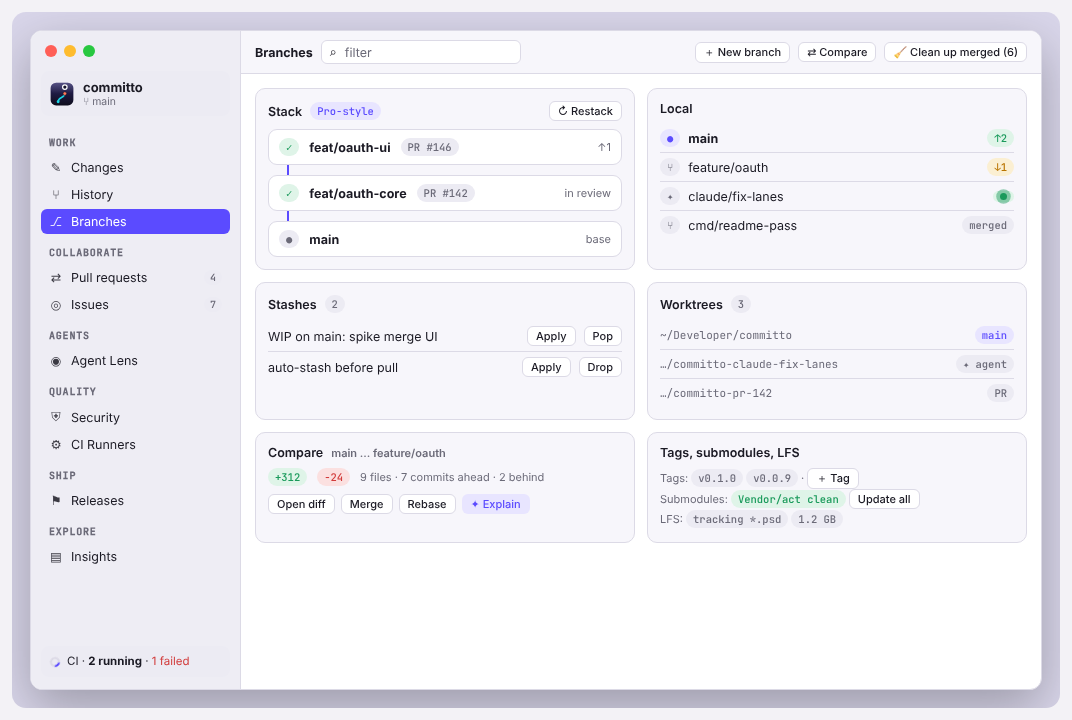
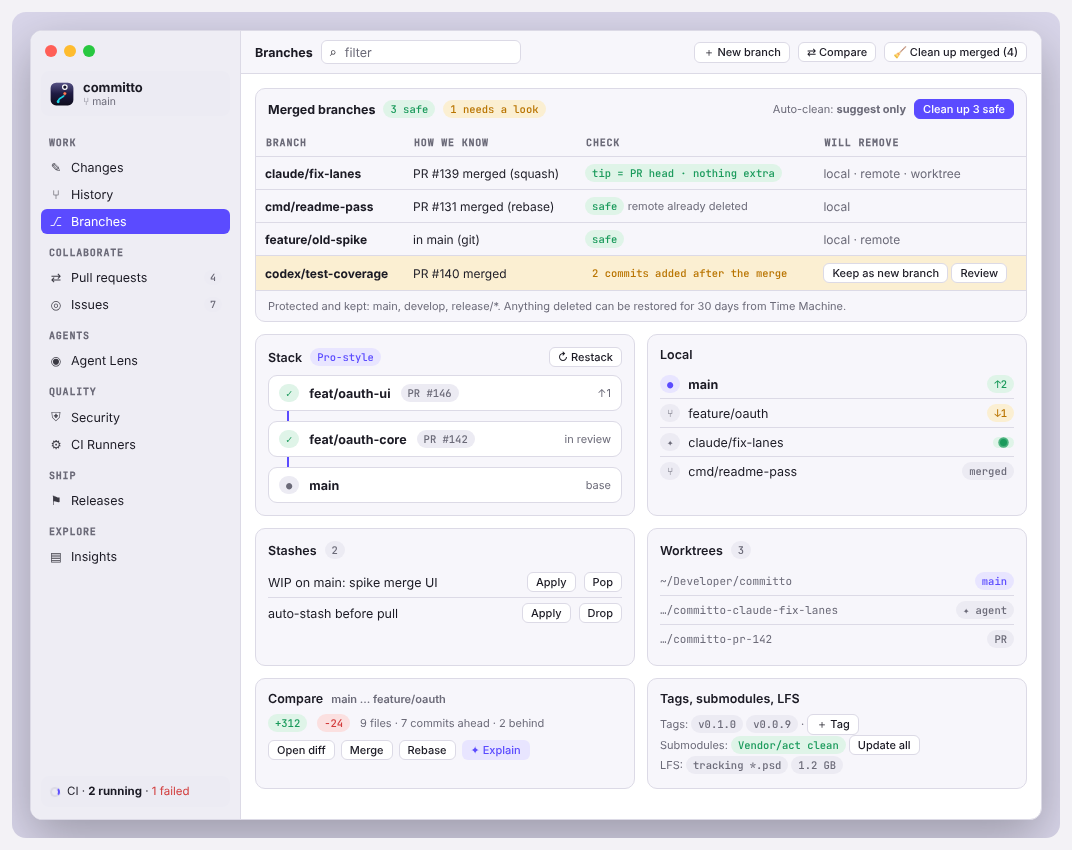
Spec and mock: branch lifecycle after a PR merges (detection, safe vs needs-a-look, cleanup, undo)
Claude-Session: https://claude.ai/code/session_01NwmoFSPpB8fGT1j2CibvrD

diff --git a/docs/mockup/index.html b/docs/mockup/index.html
@@ -932,9 +932,16 @@ footer.sum p{margin:0;color:var(--mut);max-width:60ch;line-height:1.5}
 <!-- 10 BRANCHES -->
 <section class="screen" id="s-branches" data-title="Branches &amp; stacks">
   <div class="shead"><div><h2>Branches, stacks, stash and worktrees</h2><p>Everything about where work lives. Stacked branches are shown as a ladder with PR state per rung, including a one-click restack.</p></div><div class="approve" data-k="branches"></div></div>
-  <div class="cols"><div class="stage"><div class="win tall" data-active="Branches"><div class="main">
-    <div class="bar"><b>Branches</b><div class="input" style="width:200px;padding:3px 8px"><span>⌕</span><span style="color:var(--mut)">filter</span></div><span class="sp"></span><span class="btn sm">＋ New branch</span><span class="btn sm">⇄ Compare</span><span class="btn sm">🧹 Clean up merged (6)</span></div>
+  <div class="cols"><div class="stage"><div class="win xl" data-active="Branches"><div class="main">
+    <div class="bar"><b>Branches</b><div class="input" style="width:200px;padding:3px 8px"><span>⌕</span><span style="color:var(--mut)">filter</span></div><span class="sp"></span><span class="btn sm">＋ New branch</span><span class="btn sm">⇄ Compare</span><span class="btn sm">🧹 Clean up merged (4)</span></div>
     <div class="body"><div class="pane" style="flex:1;padding:14px;display:grid;grid-template-columns:1fr 1fr;gap:12px;align-content:start;overflow:hidden">
+      <div class="card" style="grid-column:1/-1;padding:0;overflow:hidden"><div style="padding:10px 12px;display:flex;gap:8px;align-items:center;flex-wrap:wrap"><b>Merged branches</b><span class="chip ok">3 safe</span><span class="chip warn">1 needs a look</span><span class="sp" style="flex:1"></span><span class="small">Auto-clean: <b>suggest only</b></span><span class="btn pri sm">Clean up 3 safe</span></div>
+          <table class="dt"><tr><th>Branch</th><th>How we know</th><th>Check</th><th>Will remove</th></tr>
+            <tr><td><b>claude/fix-lanes</b></td><td>PR #139 merged (squash)</td><td><span class="chip ok">tip = PR head · nothing extra</span></td><td class="small">local · remote · worktree</td></tr>
+            <tr><td><b>cmd/readme-pass</b></td><td>PR #131 merged (rebase)</td><td><span class="chip ok">safe</span> <span class="small">remote already deleted</span></td><td class="small">local</td></tr>
+            <tr><td><b>feature/old-spike</b></td><td>in main (git)</td><td><span class="chip ok">safe</span></td><td class="small">local · remote</td></tr>
+            <tr style="background:var(--warn-soft)"><td><b>codex/test-coverage</b></td><td>PR #140 merged</td><td><span class="chip warn">2 commits added after the merge</span></td><td><span class="btn sm">Keep as new branch</span> <span class="btn sm">Review</span></td></tr></table>
+          <div class="small" style="padding:8px 12px">Protected and kept: main, develop, release/*. Anything deleted can be restored for 30 days from Time Machine.</div></div>
       <div class="card"><h4>Stack <span class="chip acc">Pro-style</span><span class="btn sm" style="margin-left:auto">↻ Restack</span></h4>
         <div class="stk">
           <div class="b"><span class="chip ok">✓</span><b>feat/oauth-ui</b><span class="chip">PR #146</span><span class="small" style="margin-left:auto">↑1</span></div>
@@ -962,7 +969,7 @@ footer.sum p{margin:0;color:var(--mut);max-width:60ch;line-height:1.5}
   </div></div></div></div>
   <aside class="notes"><h3>Notes</h3>
     <div class="note"><span class="n">1</span><div><b>Stacked branches</b> as a ladder with PR state and one-click restack .<i>SPEC §13</i></div></div>
-    <div class="note"><span class="n">2</span><div><b>Automatic cleanup</b> of merged branches, including squash-merged ones detected through the PR.<i>SPEC §13</i></div></div>
+    <div class="note"><span class="n">2</span><div><b>Merged-branch cleanup.</b> Merged is decided from the PR first (so squash and rebase merges count), then git. “Safe” means the branch tip is exactly what the PR merged, with nothing unpushed or uncommitted. Anything else is shown for review and never auto-deleted. Deletions are restorable for 30 days.<i>SPEC §7.12</i></div></div>
     <div class="note"><span class="n">3</span><div><b>Stash, worktrees, tags, submodules, LFS</b> in one place.<i>SPEC §4.1, 4.5</i></div></div>
     <div class="note"><span class="n">4</span><div><b>Compare branches</b> opens the same diff engine and has the ✦ explain link.<i>SPEC §4.3</i></div></div>
   </aside></div>

diff --git a/docs/SPEC.md b/docs/SPEC.md
@@ -101,6 +101,16 @@ Target: a complete desktop git client on macOS. Advanced workflow items (stacked
 - **Status and routing:** tailnet runners appear in CI live (mock 15) with a tailnet badge and direct/relayed latency; runner selection can prefer direct paths; offline devices are shown with last seen. MCP: `tailscale_status`, `tailscale_devices`, `runner_list`, `runner_add`, `runner_remove` (add/remove are write tier; applying ACLs or creating keys is destructive tier).
 - **Out of scope for v1:** exposing Committo to people outside the tailnet (no Funnel, no sharing links), Windows runners, using the Tailscale Kubernetes operator.
 
+7.12 **Branch lifecycle after a PR merges (mock 10):**
+- **How "merged" is decided (strongest first):** (1) the provider's PR for that head branch is merged, with its merge method and merge commit, which is the only signal that is reliable for squash and rebase merges; (2) git facts: `git branch --merged <default>`, `git cherry` showing every commit patch-equivalent (rebase merge), a squash check by comparing the branch's tree against the default branch (`commit-tree` on the branch tree plus `git cherry`), and an upstream marked gone after `fetch --prune` (provider auto-deleted the head branch). Without PR data the git-only squash check is labelled "probably merged" and is never treated as safe without confirmation. The PR is matched by the head ref recorded when the PR was opened or checked out in the app; renamed or fork branches are matched by head SHA.
+- **Safe vs needs a look:** *Safe* = merged **and** the local tip equals the PR head (or is its ancestor) **and** nothing unpushed **and** no uncommitted changes in its worktree **and** not protected **and** no agent currently running on it **and** no open PR stacked on it. Anything else is *needs a look* with the reason (for example "2 commits added after the merge", "worktree has changes", "stash refers to it") and options: keep as a new branch (rename and re-point), cherry-pick the extra commits onto a new branch, review the diff, or keep. Needs-a-look branches are never auto-deleted.
+- **When it runs:** right after an in-app merge (prompt: switch to default branch, pull, delete branch), after fetch when an upstream disappears, in a weekly sweep that feeds a counter, and on demand in Branches ("Clean up N safe").
+- **What cleanup does, in order:** if the current branch is merged, stash any changes, switch to the default branch and fast-forward pull; remove agent and PR worktrees (only if clean); delete the local branch; delete the remote branch only if the provider has not already (destructive tier, off by default); remove local PR checkout refs; mark the linked Lens card and issue as done; update any stack.
+- **Stacks:** when a base PR merges, children are restacked onto the default branch (`rebase --onto`), pushed with `--force-with-lease`, and their PR base is retargeted; conflicts open the merge tool.
+- **Undo:** every deletion is logged (name, tip SHA, PR, time) for 30 days and the PR head ref remains on the provider, so Time Machine can restore the branch with one click.
+- **Settings:** Auto-clean = Off / Suggest (default) / Local only for safe branches / Local and remote for safe branches; protected and kept patterns (`main`, `master`, `develop`, `release/*`, `hotfix/*` by default); optional wait of N days after merge.
+- **MCP:** `branch_cleanup_plan` (read tier: returns every candidate with classification and reasons) and `branch_cleanup_apply` (destructive tier: takes plan item ids; refuses needs-a-look items unless explicitly named).
+
 ## 8. Agents and Lens (mock 6)
 
 8.1 **Attribution:** branch prefix (`claude/`, `codex/`, `cursor/`, `copilot/`, `cmd/`…), `Co-Authored-By` trailers, bot authors. User-extensible rules.

diff --git a/docs/COVERAGE.md b/docs/COVERAGE.md
@@ -35,6 +35,7 @@ Every request made so far, mapped to where it appears. Legend: **M** = in the mo
 | 30 | **CI status highlighted: running, local, remote, self-hosted** | 1, 15 | §7.9 | partial (act + LAN runner exist, uncompiled UI; hosted-provider status: –) |
 | 31 | **SecurityCage integration: setup, install, auto-appearing scan, pinned latest, updates** | 4, 5, 13, 16 | §7.10 | **install/pin/update/rollback/scan/MCP implemented and tested live**; UI mock only |
 | 32 | **Tailscale: local machines/servers connect as CI runners; setup automated in-app** | 15, 16, 12 | §7.11 | – (mock and spec only; untested against a real tailnet) |
+| 33 | **Managing branches whose PRs are merged** | 10 | §7.12 | – (spec and mock only) |
 | 25 | main branch, protected; Apache 2.0; README with agent prompt, logo, screenshots | – | – | main + README + LICENSE done; protection **pending** (needs `Scripts/protect-main.sh`) |
 
 ## Screens in the mockup (19)
